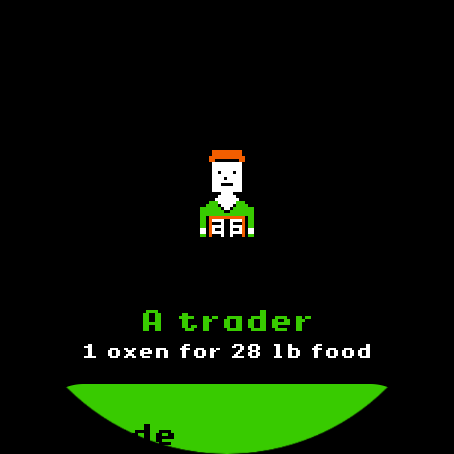
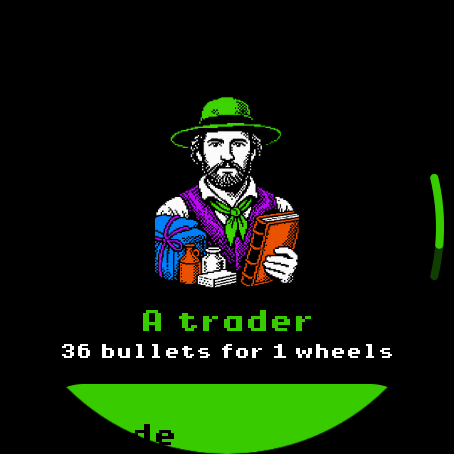
Recapture the README screenshots against the new art
The committed set was captured on 2026-08-10 and so predates both the
externally-authored pixel art and the store row fix, showing the old
scenes and a store list with its price and holding truncated.

All twelve recaptured from a single run on the Wear_OS_Large_Round
emulator. The profession and abandon screens came out byte-identical —
they carry no art — so they are untouched. Adds two screens the set
never covered: a river fording result and a fort arrival.

Claude-Session: https://claude.ai/code/session_01TsZjUvFGsTyz8MpqpF9ENV

diff --git a/README.md b/README.md
@@ -23,6 +23,8 @@ All captured on the `Wear_OS_Large_Round` emulator (454×454, API 33).
 | A trail encounter | Checking supplies |
 | ![Kansas River Crossing](docs/images/river.png) | ![Choosing how to cross](docs/images/river-choice.png) |
 | Arriving at a river | Choosing how to cross |
+| ![Fording the Kansas](docs/images/crossing.png) | ![Fort Kearney](docs/images/fort.png) |
+| Fording safely | Arriving at a fort |
 | ![The hunting minigame](docs/images/hunting.png) | ![Confirming abandonment of a run](docs/images/abandon.png) |
 | Hunting the prairie | Abandoning a run (no undo) |
 
